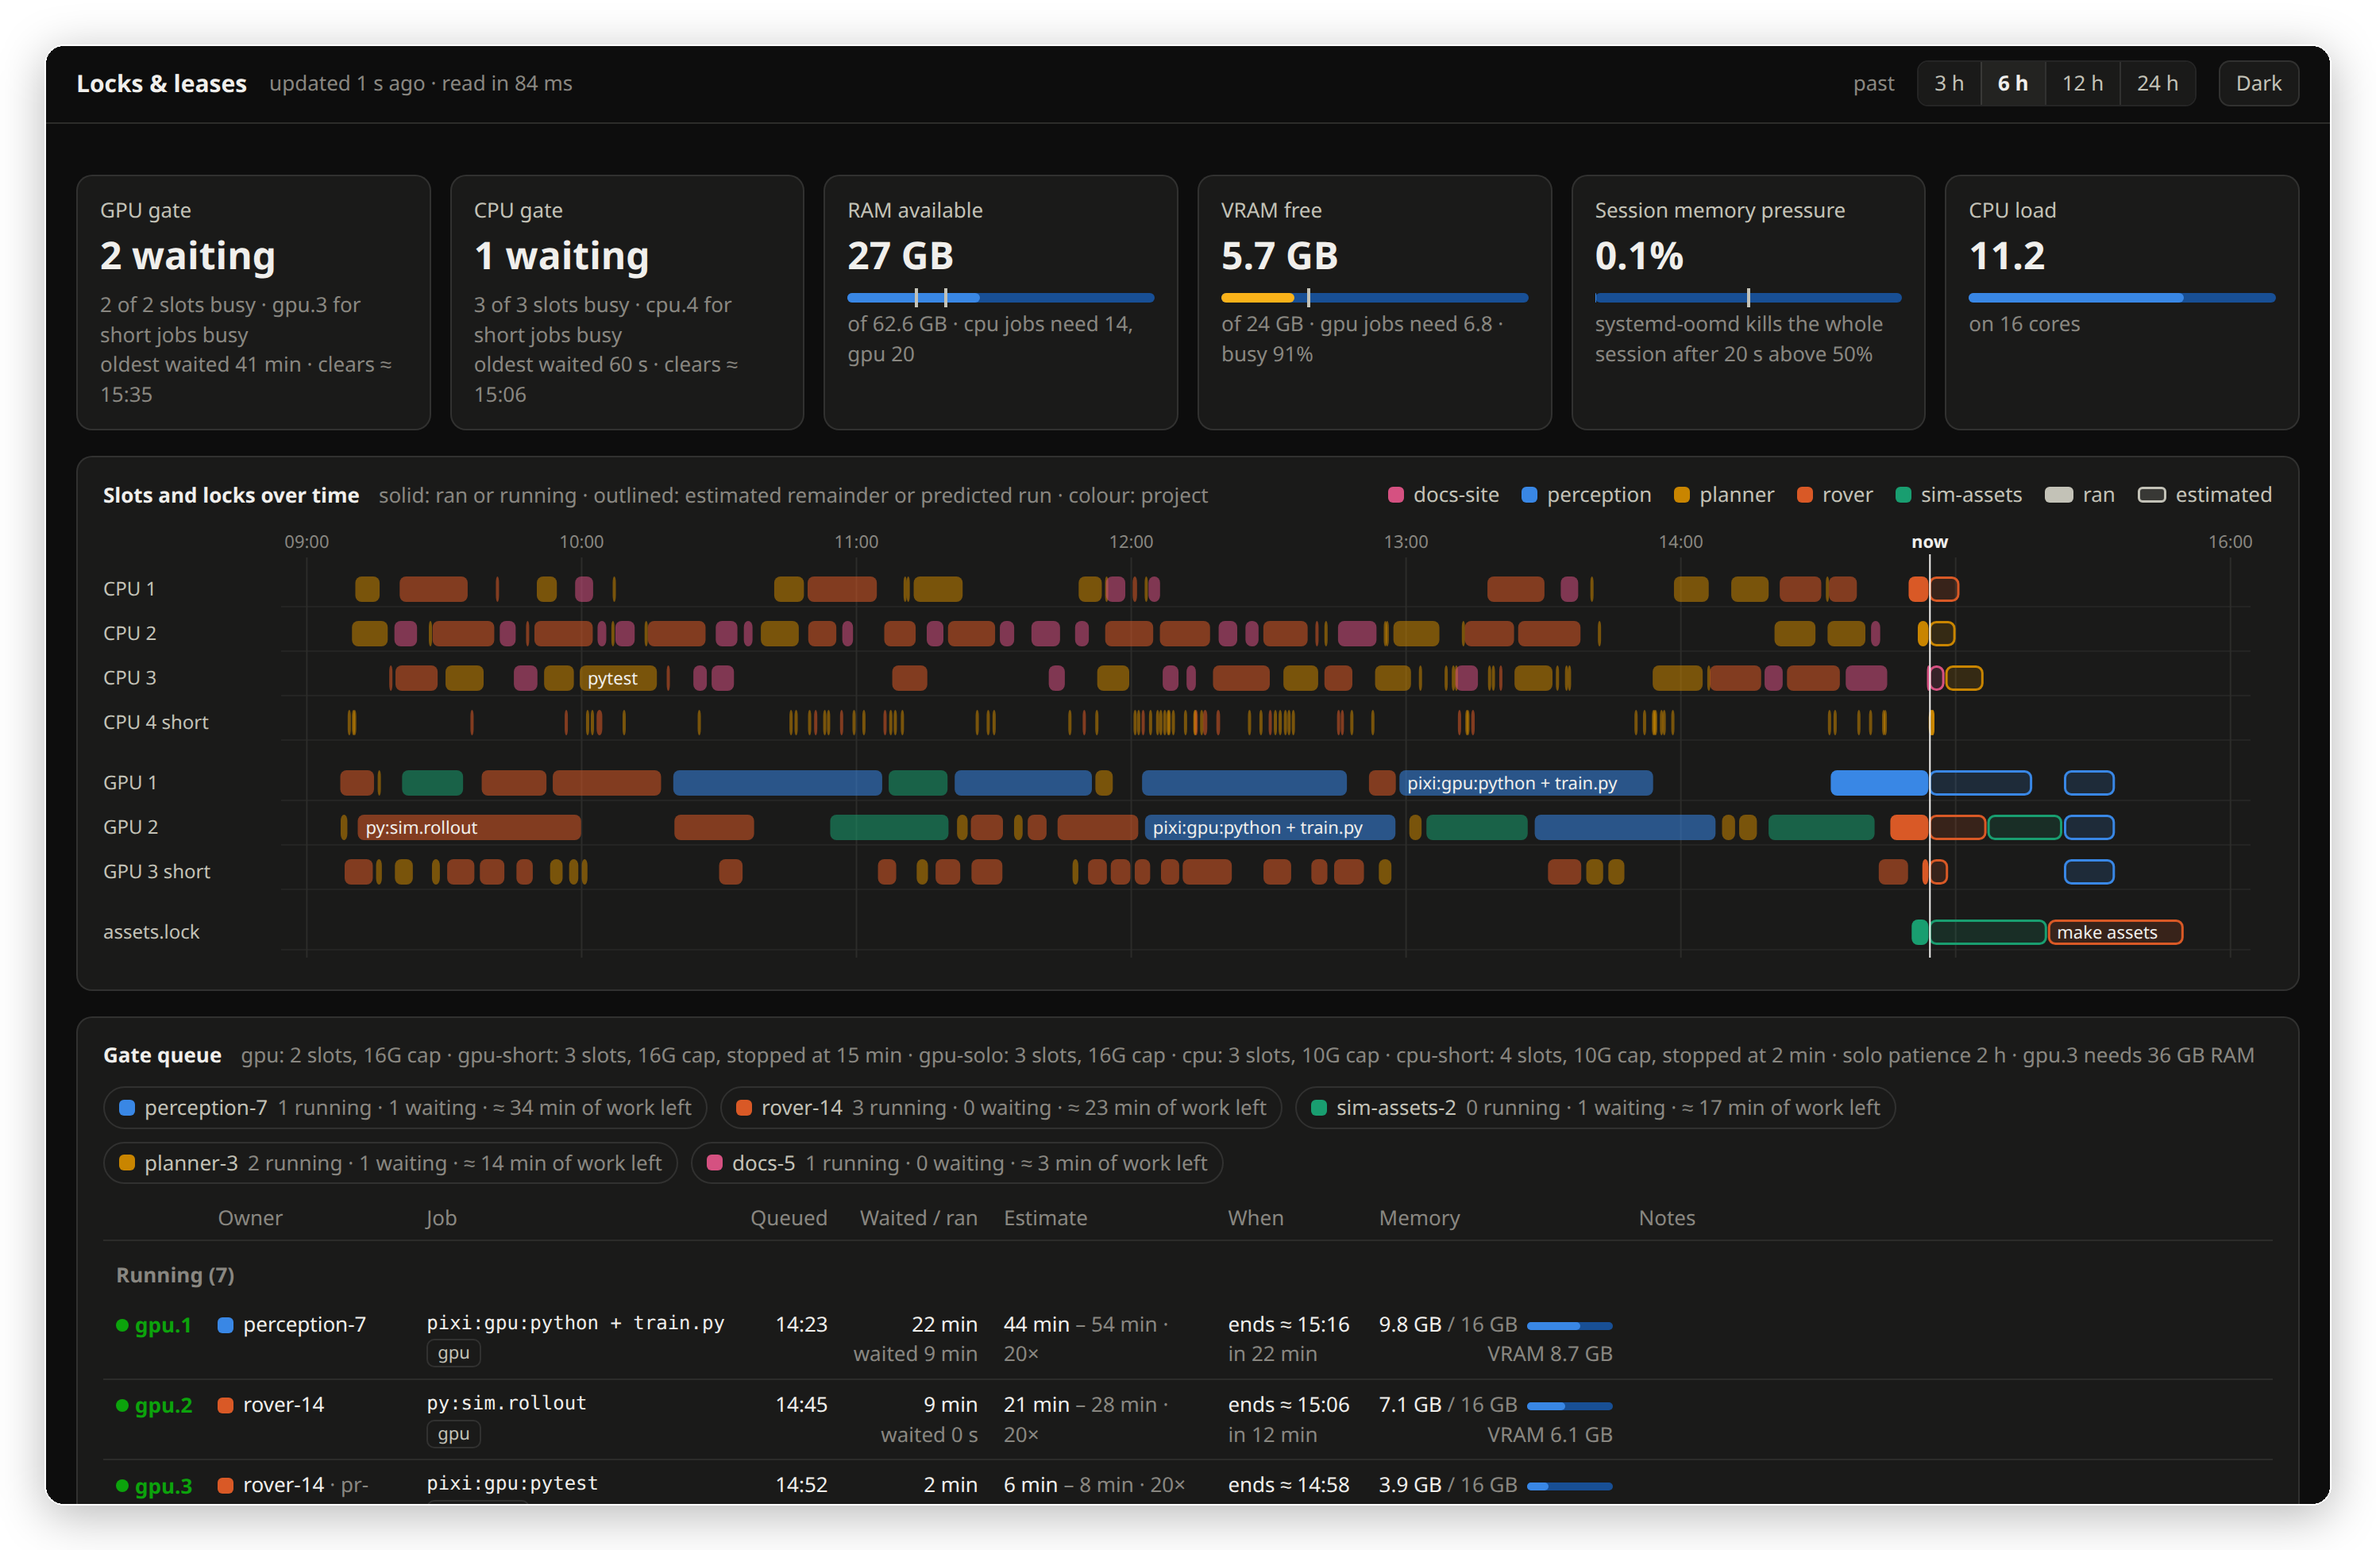
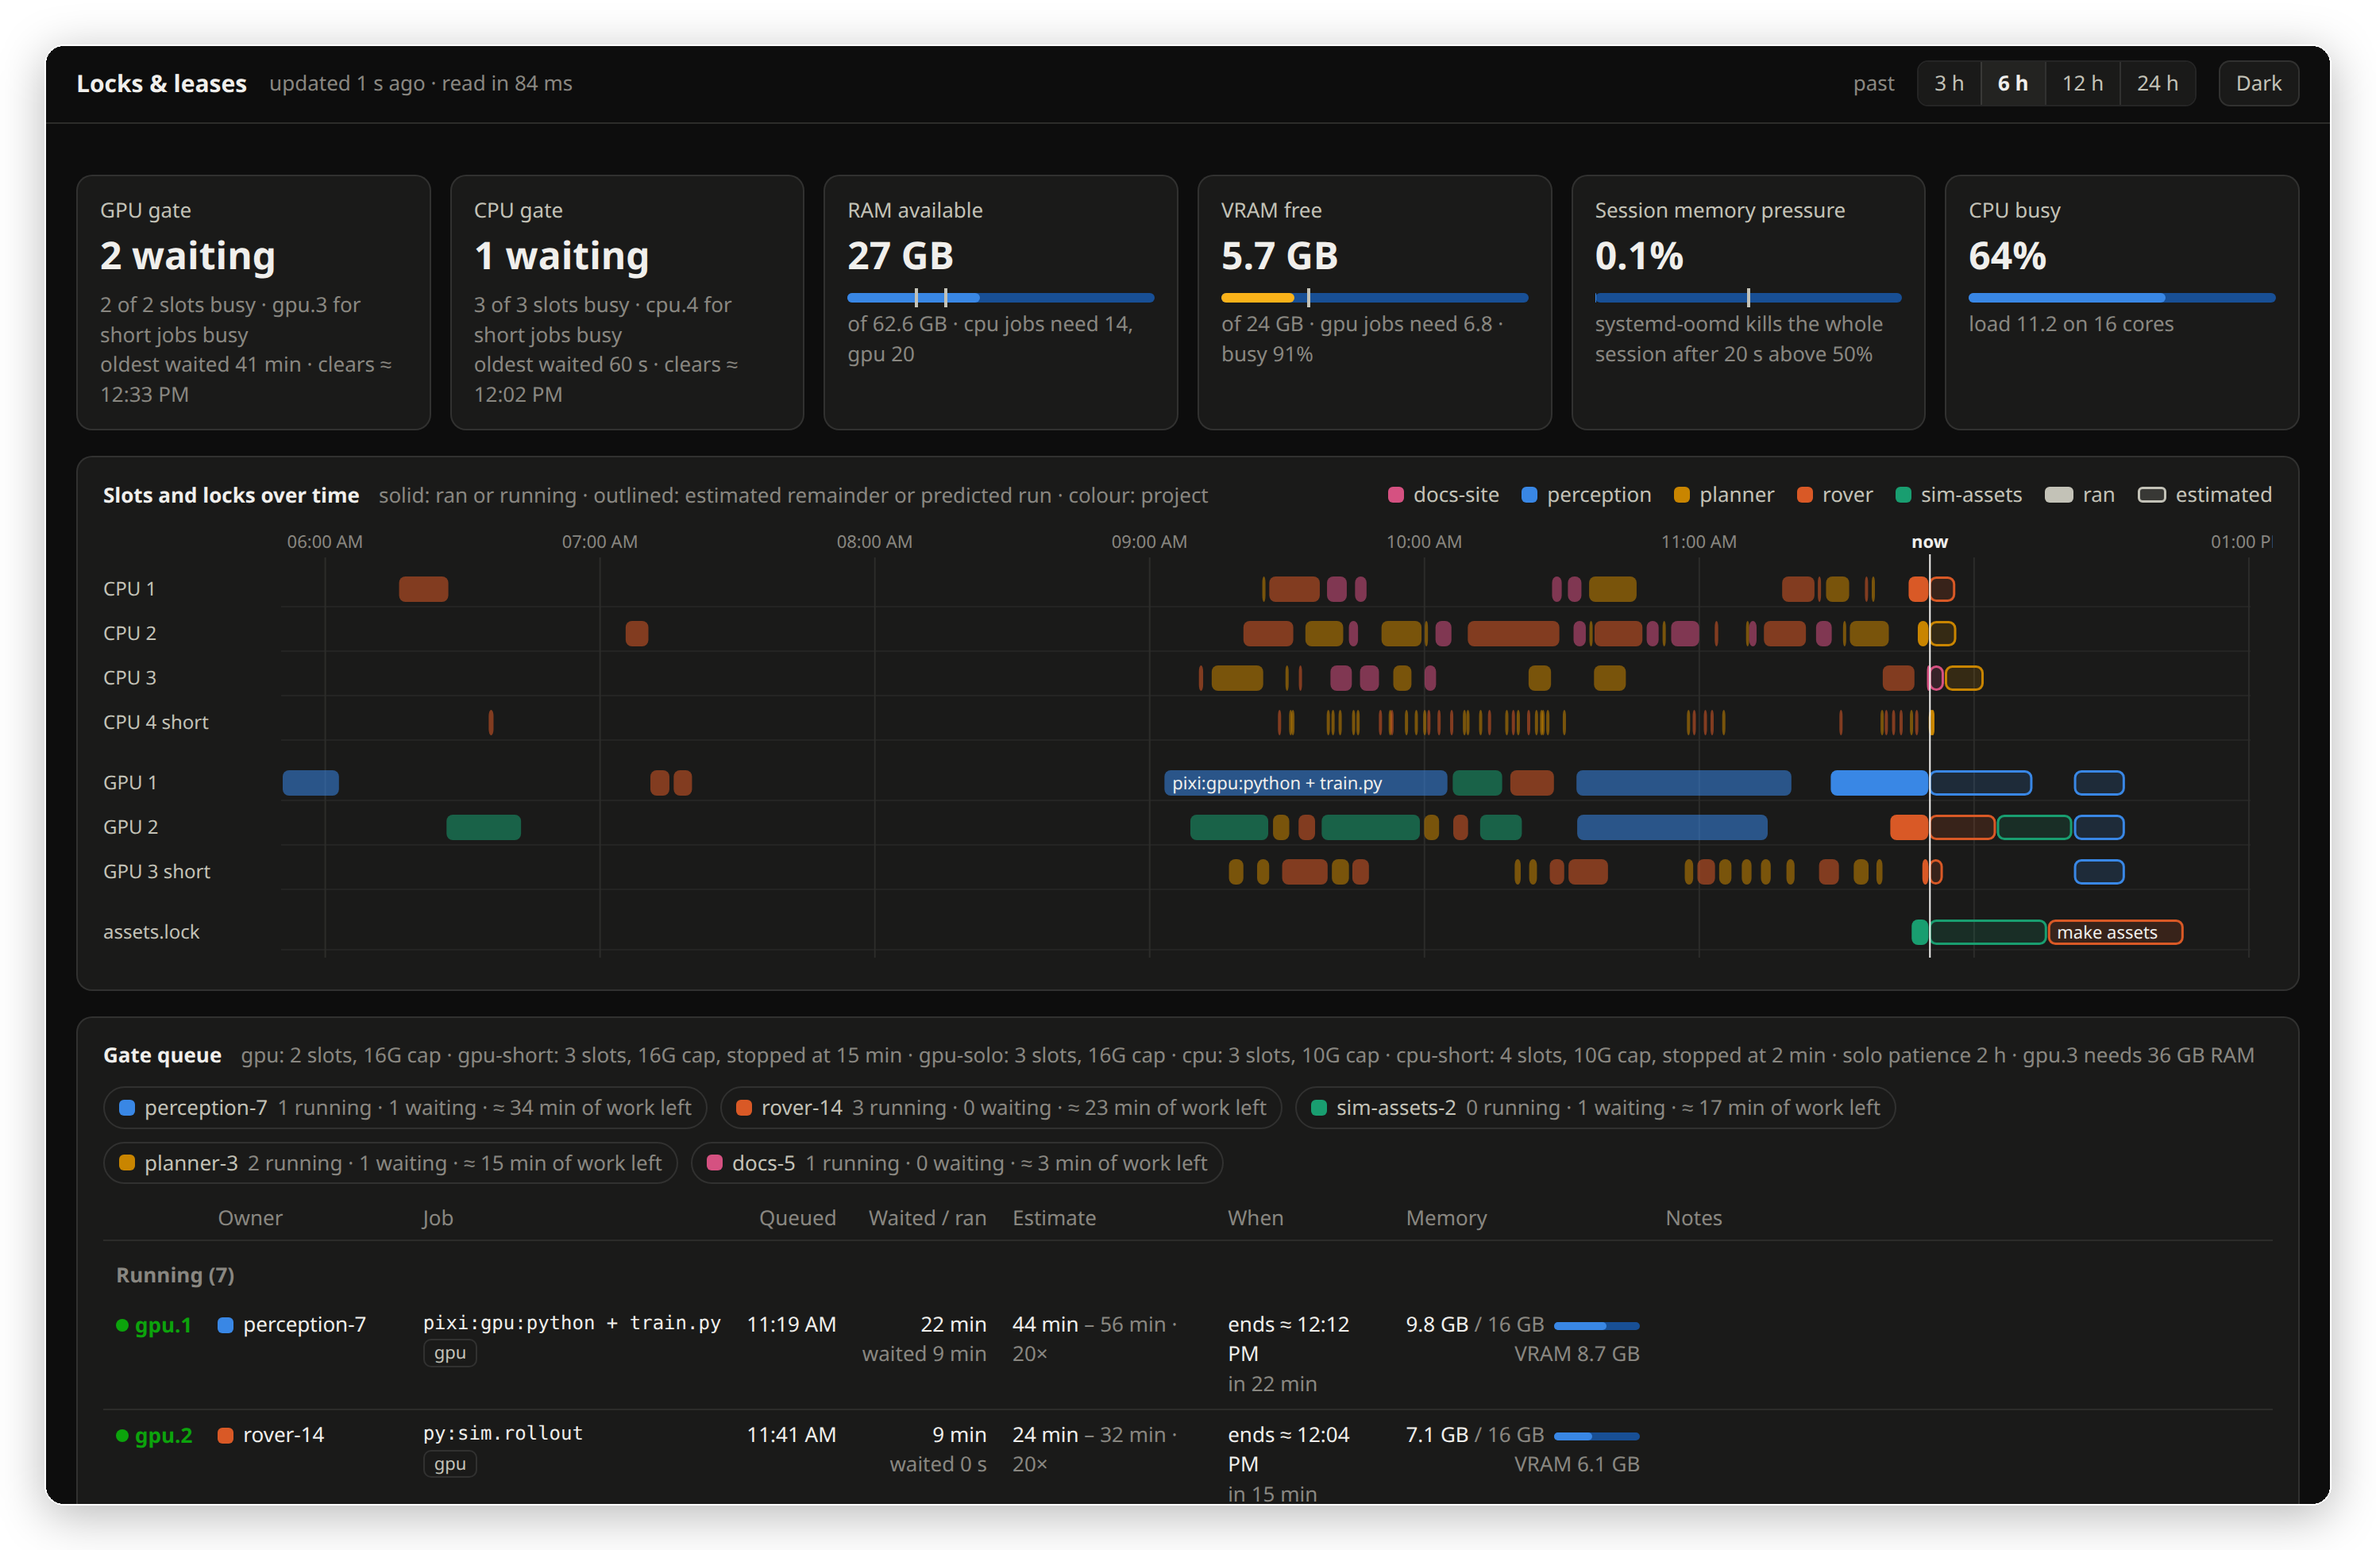
lockview: show how busy the CPUs are, beside the load average
The page showed only the load average, which counts tasks waiting on disk
and isn't a share of the machine. A "CPU busy" tile gives the share of CPU
time spent busy between the last two samples, from /proc/stat, as the probe
already reports for other machines, with the load beneath it.

diff --git a/lockview/web/index.html b/lockview/web/index.html
@@ -451,15 +451,12 @@ function renderTiles() {
   out.push(h("div", { class: "tile" }, h("div", { class: "label" }, "Session memory pressure"), h("div", { class: "value" }, `${pv.toFixed(1)}%`),
     meter(pv / 100, pv >= lim ? "critical" : pv >= lim / 2 ? "warning" : "", [lim / 100]),
     h("div", { class: "sub" }, oomd.kills ? `systemd-oomd kills the whole session after ${oomd.duration_s} s above ${lim}%` : "systemd-oomd does not watch this session")));
-  const load = h("div", { class: "sub" }, `load ${m.load[0].toFixed(1)} on ${m.cpus} cores`);
+  out.push(h("div", { class: "tile" }, h("div", { class: "label" }, "CPU busy"), h("div", { class: "value" }, m.cpu_pct == null ? "—" : `${Math.round(m.cpu_pct)}%`),
+    meter((m.cpu_pct || 0) / 100), h("div", { class: "sub" }, `load ${m.load[0].toFixed(1)} on ${m.cpus} cores`)));
   if ((cfg.programs || []).length) {  // config.toml's [gpu] programs: those that must run through the gate
     const progs = gs.programs || [], ungated = progs.filter((p) => !p.gated);
     out.push(h("div", { class: "tile" }, h("div", { class: "label" }, "Gated programs"), h("div", { class: "value" }, `${progs.length} running`),
-      ungated.length ? h("div", { class: "status critical" }, `${ungated.length} outside the gate: no gpu job can start`) : h("div", { class: "status good" }, "all inside the gate"),
-      load));
-  } else {
-    out.push(h("div", { class: "tile" }, h("div", { class: "label" }, "CPU load"), h("div", { class: "value" }, m.load[0].toFixed(1)),
-      meter(Math.min(1, m.load[0] / m.cpus), m.load[0] > m.cpus ? "warning" : "", []), h("div", { class: "sub" }, `on ${m.cpus} cores`)));
+      ungated.length ? h("div", { class: "status critical" }, `${ungated.length} outside the gate: no gpu job can start`) : h("div", { class: "status good" }, "all inside the gate")));
   }
   $("#tiles").replaceChildren(...out);
 }

diff --git a/lockview/server.py b/lockview/server.py
@@ -223,6 +223,7 @@ class Sampler:
         self.oomd = resources.oomd_policy(os.getuid())
         self.gpu_idle_since: dict[int, float] = {}  # gate pid -> since when its job has had no work on the GPU
         self.last_snap: procs.Snapshot | None = None  # the previous sample's, for each process's CPU use since
+        self.last_cpu: tuple[int, int] | None = None  # the previous sample's resources.cpu_times(), for CPU use since
 
     def _refresh_history(self, now: float) -> bool:
         if now - self._journal_at < self.journal_every:
@@ -262,7 +263,10 @@ class Sampler:
         session_cg = resources.session_cgroup(snap.procs[os.getpid()].cgroup) if os.getpid() in snap.procs else None
         psi = resources.pressure(session_cg / "memory.pressure") if session_cg else {}
         load = os.getloadavg()
-        self.machine_log.add(now, machinelog.Reading(resources.meminfo_gb("MemAvailable"), psi, gs.gpu, load[0], resources.cpu_times()))
+        cpu = resources.cpu_times()
+        cpu_pct = resources.busy_pct(self.last_cpu, cpu)
+        self.last_cpu = cpu
+        self.machine_log.add(now, machinelog.Reading(resources.meminfo_gb("MemAvailable"), psi, gs.gpu, load[0], cpu))
         return {
             "now": now,
             "sample_ms": round(1000 * (time.time() - t0)),
@@ -274,6 +278,7 @@ class Sampler:
                 "oomd": self.oomd.__dict__,
                 "load": load,
                 "cpus": os.cpu_count(),
+                "cpu_pct": cpu_pct,
             },
             "sessions": [s.__dict__ for s in sessions.values()],
             "gate": {**gs.as_dict(), "gates": jobs},

diff --git a/lockview/machinelog.py b/lockview/machinelog.py
@@ -14,7 +14,7 @@ import time
 from dataclasses import dataclass
 from pathlib import Path
 
-from .resources import Gpu
+from .resources import Gpu, busy_pct
 
 SCHEMA = 1
 
@@ -32,7 +32,6 @@ def summary(since: float, now: float, cpu0: tuple[int, int], readings: list[Read
     """One line for the readings taken after `since` up to `now`; `cpu0` is the CPU time at `since`."""
     gpus = [r.gpu for r in readings if r.gpu.ok]
     psi = [r.pressure for r in readings if r.pressure]
-    busy, total = (b - a for a, b in zip(cpu0, readings[-1].cpu, strict=True))
     return {
         "v": SCHEMA,
         "t": round(now),
@@ -43,7 +42,7 @@ def summary(since: float, now: float, cpu0: tuple[int, int], readings: list[Read
         "psi_full_max": max((p["full_avg10"] for p in psi), default=None),
         "gpu_util_mean": round(sum(g.util_pct for g in gpus) / len(gpus)) if gpus else None,
         "vram_max_mb": max((g.used_mb for g in gpus), default=None),
-        "cpu_pct": round(100 * busy / total, 1) if total > 0 else None,
+        "cpu_pct": busy_pct(cpu0, readings[-1].cpu),
         "load1": round(readings[-1].load1, 2),
     }
 

diff --git a/docs/screenshots.py b/docs/screenshots.py
@@ -189,7 +189,7 @@ def state(now: float) -> dict:
         "sample_ms": 84,
         "machine": {"ram_available_gb": 27, "ram_total_gb": 62.6, "gpu": {**gpu.__dict__, "proc_mb": None, "free_mb": gpu.free_mb},
                     "pressure": {"some_avg10": 0.4, "some_total_s": 812.0, "full_avg10": 0.1, "full_total_s": 140.0},
-                    "oomd": {"kills": True, "limit_pct": 50.0, "duration_s": 20.0}, "load": [11.2, 10.4, 9.8], "cpus": 16},
+                    "oomd": {"kills": True, "limit_pct": 50.0, "duration_s": 20.0}, "load": [11.2, 10.4, 9.8], "cpus": 16, "cpu_pct": 64.0},
         "sessions": [{"pid": 3100 + i, "name": name, "session_id": f"00000000-0000-4000-8000-00000000000{i}", "project": project,
                       "worktree": "", "status": "busy" if i < 4 else "waiting"} for i, (name, project) in enumerate(SESSIONS.items())],
         "gate": {**gs.as_dict(), "gates": server.gate_jobs(gs, est, now)},

diff --git a/tests/test_machinelog.py b/tests/test_machinelog.py
@@ -105,3 +105,9 @@ def test_cpu_times_leave_out_idle_and_iowait_and_count_guest_time_once(tmp_path)
     stat = tmp_path / "stat"
     stat.write_text("cpu  100 20 30 400 50 6 7 8 90 10\ncpu0 1 1 1 1 1 1 1 1 1 1\n")
     assert resources.cpu_times(stat) == (171, 621)
+
+
+def test_cpu_busy_is_the_share_of_cpu_time_between_two_readings_spent_busy():
+    assert resources.busy_pct((100, 1000), (160, 1100)) == 60.0
+    assert resources.busy_pct(None, (160, 1100)) is None  # the first reading has nothing to compare with
+    assert resources.busy_pct((160, 1100), (160, 1100)) is None

diff --git a/lockview/resources.py b/lockview/resources.py
@@ -36,6 +36,14 @@ def cpu_times(stat: Path = Path("/proc/stat")) -> tuple[int, int]:
     return busy, busy + idle + iowait
 
 
+def busy_pct(before: tuple[int, int] | None, after: tuple[int, int]) -> float | None:
+    """The share of CPU time spent busy between two cpu_times() readings, in percent; None without two."""
+    if before is None:
+        return None
+    busy, total = after[0] - before[0], after[1] - before[1]
+    return round(100 * busy / total, 1) if total > 0 else None
+
+
 @dataclass
 class Gpu:
     ok: bool
